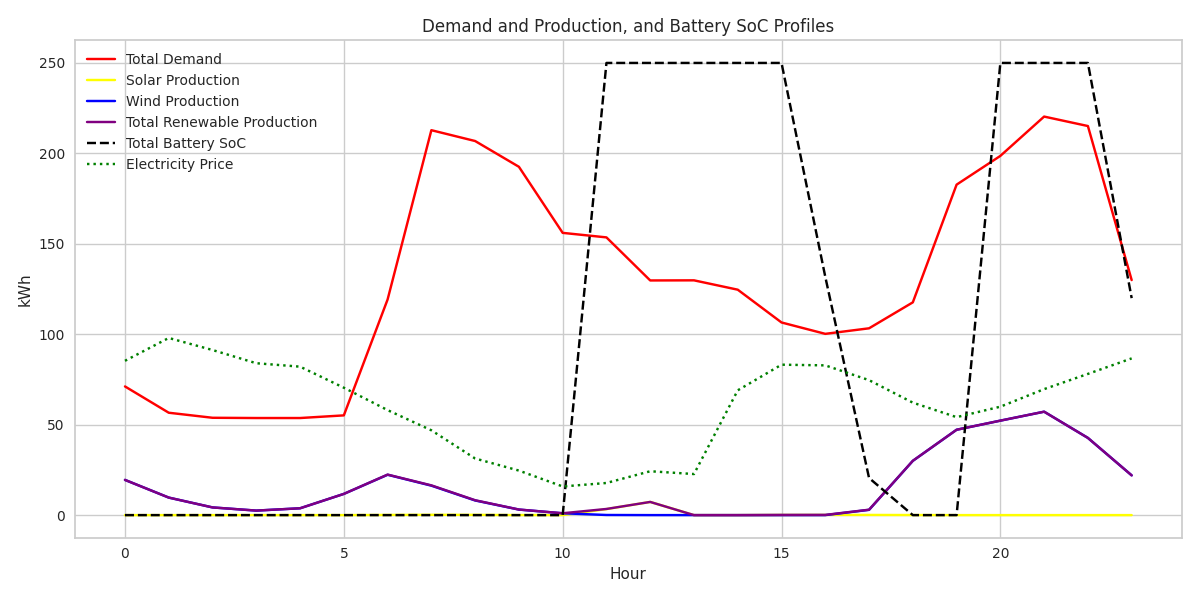
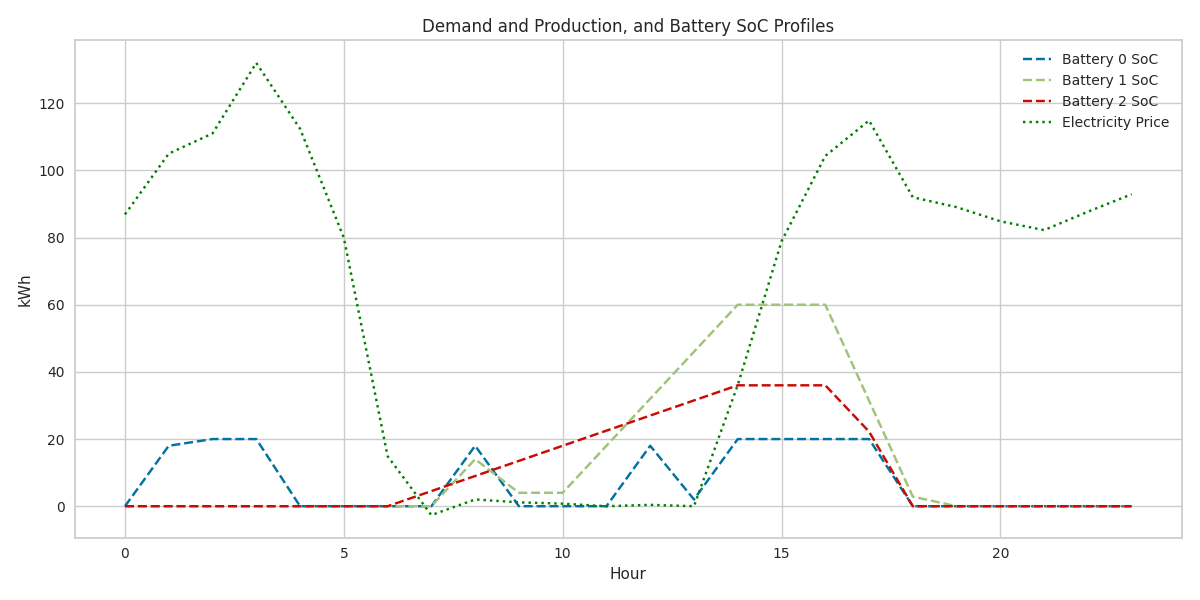
Setup for battery arbitrage problem

diff --git a/examples/GPOD/gpod_microgrid_solution.py b/examples/GPOD/gpod_microgrid_solution.py
@@ -30,39 +30,46 @@ def solve_microgrid_gpod(setup: MicrogridSetup):
     problemClass = GraphProblemClass("microgrid_problem", time_length=setup.T)
 
     metering_point = MeteringPoint("grid1")
-    homes = [Consumer(f"household_{i+1}") for i in range(setup.no_homes)]
-    school = Consumer("school")
-    solar_panels_homes = [SolarPanel(f"solar_panel_{i+1}") for i in range(setup.no_homes)]
-    solar_panel_school = SolarPanel("solar_panel_school")
-    wind_turbine = WindTurbine("wind_turbine")
-    batteries = [Battery(f"battery_{i+1}", setup.battery_power, setup.battery_power, setup.battery_capacity, setup.battery_efficiency) for i in range(setup.no_batteries)]
-    
+    # homes = [Consumer(f"household_{i+1}") for i in range(setup.no_homes)]
+    # school = Consumer("school")
+    # solar_panels_homes = [SolarPanel(f"solar_panel_{i+1}") for i in range(setup.no_homes)]
+    # solar_panel_school = SolarPanel("solar_panel_school")
+    # wind_turbine = WindTurbine("wind_turbine")
+    # batteries = [Battery(f"battery_{i+1}", setup.battery_power, setup.battery_power, setup.battery_capacity, setup.battery_efficiency) for i in range(setup.no_batteries)]
+    battery1 = Battery("battery1", 20, 20, 20, 0.9)
+    battery2 = Battery("battery2", 20, 20, 60, 0.7)
+    battery3 = Battery("battery3", 10, 10, 300, 0.45)
+
+
     start = datetime.now().replace(hour=0, minute=0, second=0, microsecond=0)
     end = start + timedelta(hours=setup.T)
 
     metering_point.dataflow.task("get_spot_prices", DataProcessingTask, process_func=fetch_spot_prices, parameters={"start_date": start, "end_date": end}, final=True)
 
-    for home in homes:
-        home.dataflow.task("gen_consumption", DataProcessingTask, process_func=predict_consumer_data, parameters={"hours": setup.T, "model_name":"consumer_model", "factor": 1}, final=True)
-    school.dataflow.task("gen_consumption", DataProcessingTask, process_func=predict_consumer_data, parameters={"hours": setup.T, "model_name":"consumer_model", "factor": 100}, final=True)
-    for solar_panel in solar_panels_homes:
-        task1 = solar_panel.dataflow.task("get_solar_data", DataProcessingTask, process_func=get_irradiation_data, parameters={"latitude": 57.0488, "longitude": 9.9217})
-        task2 = solar_panel.dataflow.task("gen_solar_data", DataProcessingTask, process_func=generate_solar_panel_data, parameters={"rated_power": setup.solar_capacity_home}, final=True)
-        task1 >> task2
-    solar_school_task1 = solar_panel_school.dataflow.task("get_solar_data", DataProcessingTask, process_func=get_irradiation_data, parameters={"latitude": 57.0488, "longitude": 9.9217}) 
-    solar_school_task2 = solar_panel_school.dataflow.task("gen_solar_data", DataProcessingTask, process_func=generate_solar_panel_data, parameters={"rated_power": setup.solar_capacity_school}, final=True)
-    solar_school_task1 >> solar_school_task2
-    wind_task1 = wind_turbine.dataflow.task("get_wind_data", DataProcessingTask, process_func=get_wind_data, parameters={"latitude": 57.0488, "longitude": 9.9217})
-    wind_task2 = wind_turbine.dataflow.task("gen_wind_data", DataProcessingTask, process_func=generate_wind_turbine_data, parameters={"rated_power": setup.wind_capacity, "cut_in_speed": 3.5, "rated_speed": 14, "cut_out_speed": 25}, final=True)
-    wind_task1 >> wind_task2
+    # for home in homes:
+        # home.dataflow.task("gen_consumption", DataProcessingTask, process_func=predict_consumer_data, parameters={"hours": setup.T, "model_name":"consumer_model", "factor": 1}, final=True)
+    # school.dataflow.task("gen_consumption", DataProcessingTask, process_func=predict_consumer_data, parameters={"hours": setup.T, "model_name":"consumer_model", "factor": 100}, final=True)
+    # for solar_panel in solar_panels_homes:
+        # task1 = solar_panel.dataflow.task("get_solar_data", DataProcessingTask, process_func=get_irradiation_data, parameters={"latitude": 57.0488, "longitude": 9.9217})
+        # task2 = solar_panel.dataflow.task("gen_solar_data", DataProcessingTask, process_func=generate_solar_panel_data, parameters={"rated_power": setup.solar_capacity_home}, final=True)
+        # task1 >> task2
+    # solar_school_task1 = solar_panel_school.dataflow.task("get_solar_data", DataProcessingTask, process_func=get_irradiation_data, parameters={"latitude": 57.0488, "longitude": 9.9217}) 
+    # solar_school_task2 = solar_panel_school.dataflow.task("gen_solar_data", DataProcessingTask, process_func=generate_solar_panel_data, parameters={"rated_power": setup.solar_capacity_school}, final=True)
+    # solar_school_task1 >> solar_school_task2
+    # wind_task1 = wind_turbine.dataflow.task("get_wind_data", DataProcessingTask, process_func=get_wind_data, parameters={"latitude": 57.0488, "longitude": 9.9217})
+    # wind_task2 = wind_turbine.dataflow.task("gen_wind_data", DataProcessingTask, process_func=generate_wind_turbine_data, parameters={"rated_power": setup.wind_capacity, "cut_in_speed": 3.5, "rated_speed": 14, "cut_out_speed": 25}, final=True)
+    # wind_task1 >> wind_task2
     
-    problemClass.add_nodes([*homes, *solar_panels_homes, *batteries, 
-                            school, solar_panel_school, wind_turbine, 
-                            metering_point])
+    # problemClass.add_nodes([*homes, *solar_panels_homes, *batteries, 
+    #                         school, solar_panel_school, wind_turbine, 
+    #                         metering_point])
     
-    metering_point.connect_to([*homes, *solar_panels_homes, *batteries, school, 
-                                  solar_panel_school, wind_turbine])
+    # metering_point.connect_to([*homes, *solar_panels_homes, *batteries, school, 
+                                #   solar_panel_school, wind_turbine])
 
+    problemClass.add_nodes([battery1, battery2, battery3, metering_point])
+
+    metering_point.connect_to([battery1, battery2, battery3])
 
     setup_time = time.time()
     result = problemClass.solve(solver=cp.CBC, objective="minimize", value="cost")
@@ -95,16 +102,16 @@ def solve_microgrid_gpod(setup: MicrogridSetup):
         setup=setup,
         solution=result,
         grid_import=metering_point.energy_import.value,
-        total_demand=[
-            sum(home.consumption_kWh[t] for home in homes) + school.consumption_kWh[t]
-            for t in range(setup.T)
-        ],
-        solar_prod=[
-            sum(solar_panel.max_power_output_kW[t] for solar_panel in solar_panels_homes) + solar_panel_school.max_power_output_kW[t]
-            for t in range(setup.T)
-        ],
-        wind_prod=[wind_turbine.max_power_output_kW[t] for t in range(setup.T)],
-        soc_values=[battery.SoC for battery in batteries],
+        # total_demand=[
+        #     sum(home.consumption_kWh[t] for home in homes) + school.consumption_kWh[t]
+        #     for t in range(setup.T)
+        # ],
+        # solar_prod=[
+        #     sum(solar_panel.max_power_output_kW[t] for solar_panel in solar_panels_homes) + solar_panel_school.max_power_output_kW[t]
+        #     for t in range(setup.T)
+        # ],
+        # wind_prod=[wind_turbine.max_power_output_kW[t] for t in range(setup.T)],
+        soc_values=[battery1.SoC, battery2.SoC, battery3.SoC],
         prices = metering_point.prices if hasattr(metering_point, 'prices') else None
     )
 

diff --git a/examples/helpers/plot_microgrid_solution.py b/examples/helpers/plot_microgrid_solution.py
@@ -10,29 +10,29 @@ import matplotlib
 matplotlib.rcParams['font.family'] = 'DejaVu Sans'
 
 
-def plot_microgrid_solution(setup:MicrogridSetup, solution, grid_import, total_demand, solar_prod, wind_prod, soc_values, prices=None):
+def plot_microgrid_solution(setup:MicrogridSetup, solution, grid_import, soc_values, prices=None):
     print("Total grid import (kWh):", np.sum(grid_import))
     print("Grid import per hour:", grid_import)
 
     # Scale up the prices (not correct, but for visualization purposes)
-    if prices is not None:
-        prices = np.array(prices) * 1000  # Scale prices to money/MWh
+    # if prices is not None:
+    #     prices = np.array(prices) * 1000  # Scale prices to money/MWh
 
     # Plot demand and production
     plt.figure(figsize=(12, 6))
-    plt.plot(total_demand[:setup.T], label="Total Demand", color='red')
-    plt.plot(solar_prod[:setup.T], label="Solar Production", color='yellow')
-    plt.plot(wind_prod[:setup.T], label="Wind Production", color='blue')
-    total_renewable_prod = np.add(solar_prod[:setup.T], wind_prod[:setup.T])
-    plt.plot(total_renewable_prod, label="Total Renewable Production", color='purple')
+    # plt.plot(total_demand[:setup.T], label="Total Demand", color='red')
+    # plt.plot(solar_prod[:setup.T], label="Solar Production", color='yellow')
+    # plt.plot(wind_prod[:setup.T], label="Wind Production", color='blue')
+    # total_renewable_prod = np.add(solar_prod[:setup.T], wind_prod[:setup.T])
+    # plt.plot(total_renewable_prod, label="Total Renewable Production", color='purple')
     # Add battery SoC to the plot
-    # for i in range(setup.no_batteries):
-    #     soc = np.array(soc_values[i].value).flatten()
-    #     plt.plot(soc[:-1], label=f"Battery {i} SoC", linestyle="--")
+    for i in range(setup.no_batteries):
+        soc = np.array(soc_values[i].value).flatten()
+        plt.plot(soc[:-1], label=f"Battery {i} SoC", linestyle="--")
 
     # Sum up the battery SoC values and plot the total SoC
-    total_soc = np.sum([np.array(soc_values[i].value).flatten()[:-1] for i in range(setup.no_batteries)], axis=0)
-    plt.plot(total_soc, label="Total Battery SoC", linestyle="--", color='black')
+    # total_soc = np.sum([np.array(soc_values[i].value).flatten()[:-1] for i in range(setup.no_batteries)], axis=0)
+    # plt.plot(total_soc, label="Total Battery SoC", linestyle="--", color='black')
     if prices is not None:
         plt.plot(prices[:setup.T], label="Electricity Price", linestyle=":", color='green')
     plt.xlabel("Hour")

diff --git a/examples/dataflow_nodes/spot_prices_data.py b/examples/dataflow_nodes/spot_prices_data.py
@@ -15,8 +15,8 @@ def fetch_spot_prices(dfs, parameters):
     df = pd.DataFrame(data)
     df['HourDK'] = pd.to_datetime(df['HourDK'])
 
-    df["SpotPriceDKK"] = df["SpotPriceDKK"] / 1000  # Convert to DKK/kWh
-    df["SpotPriceEUR"] = df["SpotPriceEUR"] / 1000  # Convert to EUR/kWh
+    # df["SpotPriceDKK"] = df["SpotPriceDKK"] / 1000  # Convert to DKK/kWh
+    # df["SpotPriceEUR"] = df["SpotPriceEUR"] / 1000  # Convert to EUR/kWh
 
     dfs["spot_prices"] = df
 

diff --git a/examples/helpers/microgrid_setup.py b/examples/helpers/microgrid_setup.py
@@ -5,7 +5,7 @@ class MicrogridSetup:
     solar_capacity_home = 5 # kW
     solar_capacity_school = 25 # kW
     wind_capacity = 1000 # kW
-    no_batteries = 1
+    no_batteries = 3
     battery_capacity = 250 # kWh
     battery_power = 500 # kW
     battery_efficiency = 0.9 # in %

diff --git a/examples/GPOD/microgrid_domain.py b/examples/GPOD/microgrid_domain.py
@@ -103,7 +103,7 @@ class MeteringPoint(Resource):
         self.energy_import = cp.Variable(t, nonneg=False)
 
     def constraints(self, t):
-        return [self.energy_import[t] >= 0]
+        return []
     
     def powerflow(self, t):
         return self.energy_import[t]
